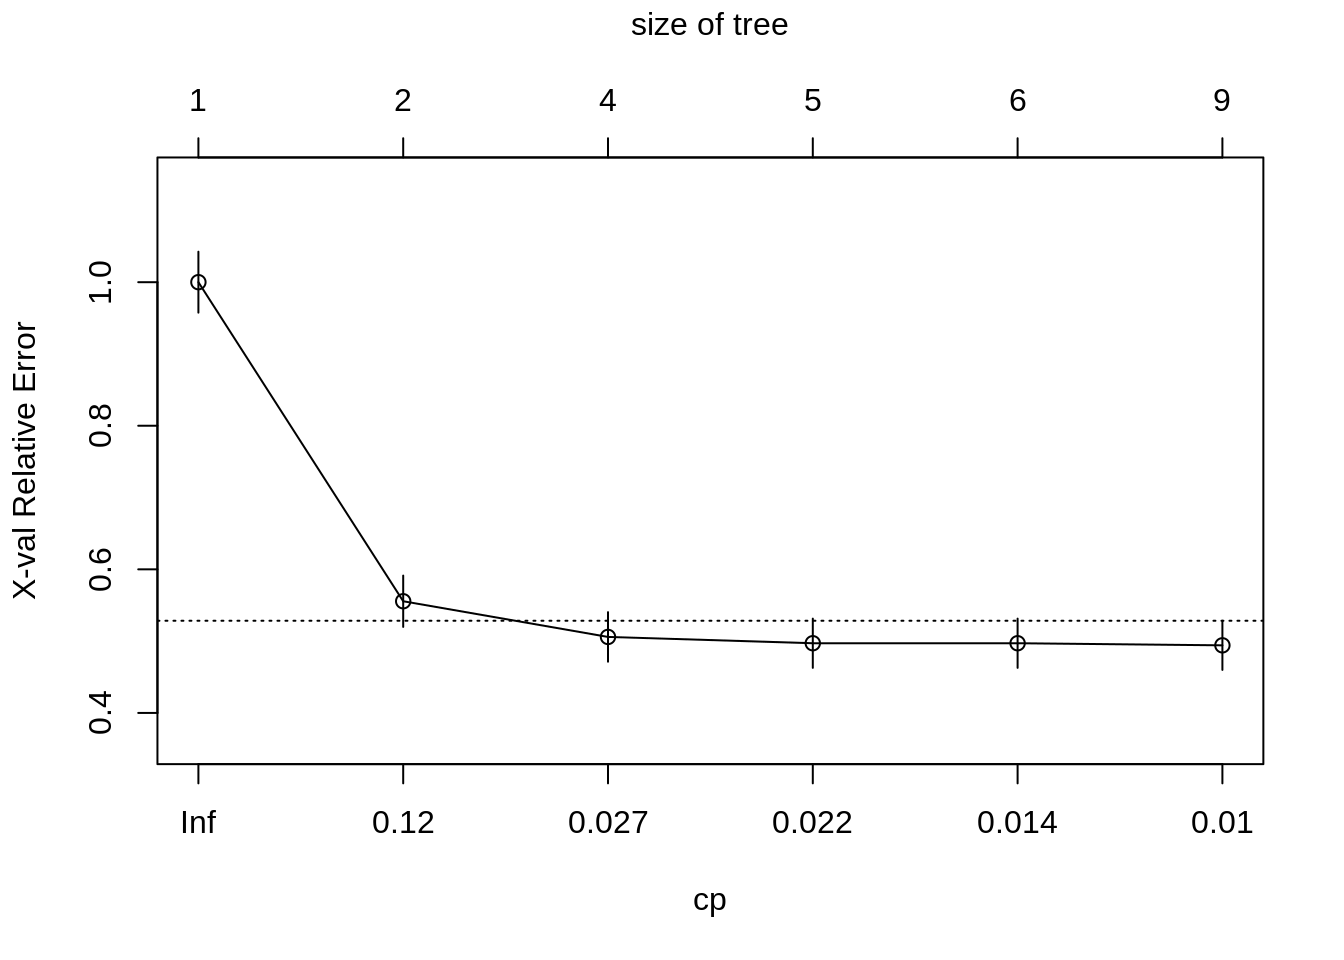
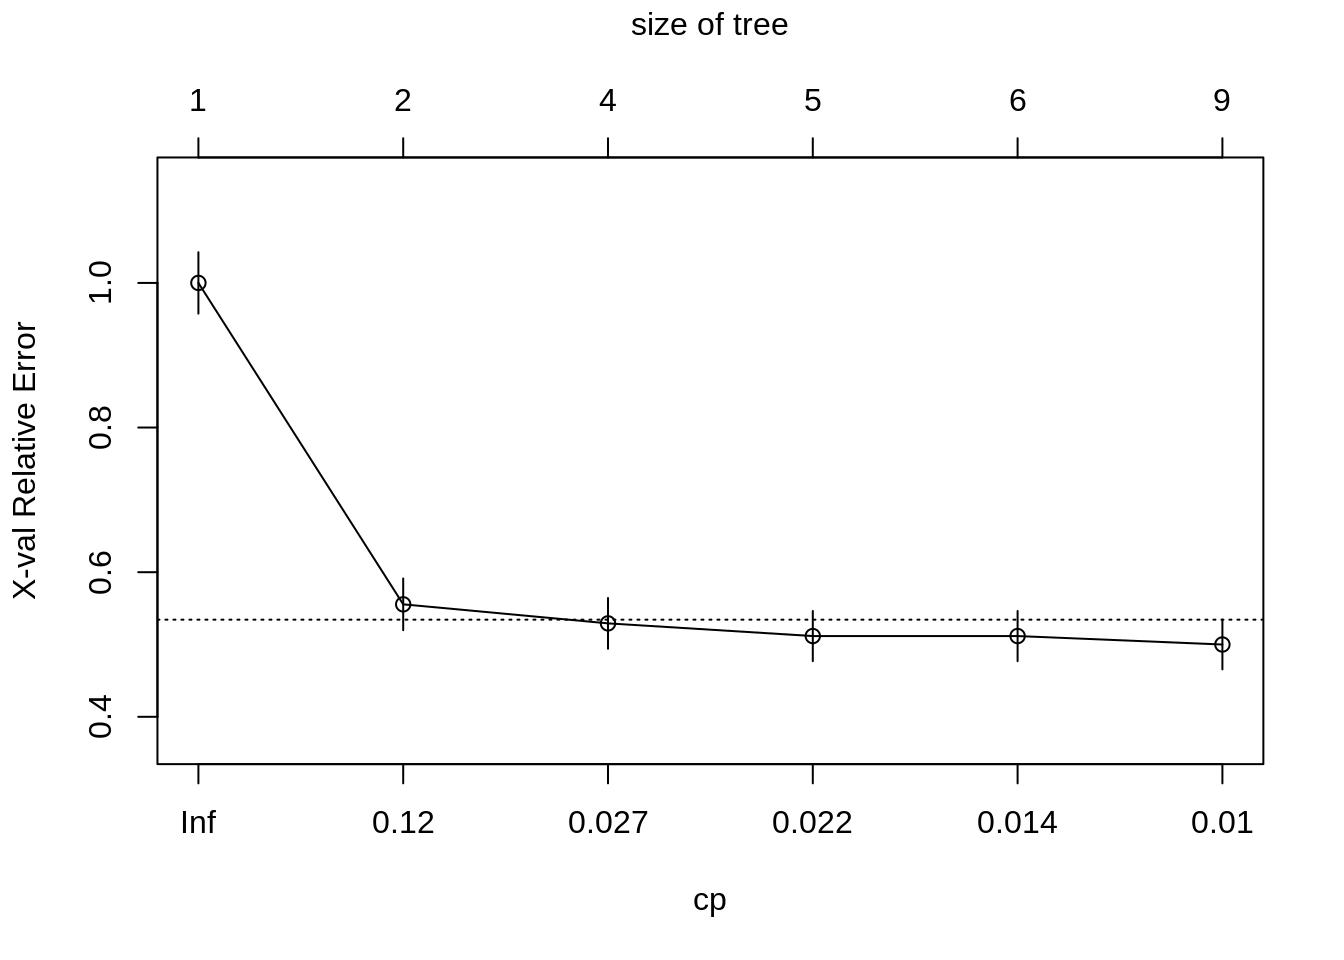
Deploy lebebr01/stat_thinking to github.com/lebebr01/stat_thinking.git:master

diff --git a/docs/classification.html b/docs/classification.html
@@ -324,10 +324,10 @@ titanic &lt;-<span class="st"> </span><span class="kw">bind_rows</span>(titanic_
 ##         CP nsplit rel error  xerror     xstd
 ## 1 0.444444      0   1.00000 1.00000 0.042446
 ## 2 0.030702      1   0.55556 0.55556 0.035750
-## 3 0.023392      3   0.49415 0.50585 0.034524
-## 4 0.020468      4   0.47076 0.49708 0.034295
-## 5 0.010234      5   0.45029 0.49708 0.034295
-## 6 0.010000      8   0.41813 0.49415 0.034217</code></pre>
+## 3 0.023392      3   0.49415 0.52924 0.035116
+## 4 0.020468      4   0.47076 0.51170 0.034675
+## 5 0.010234      5   0.45029 0.51170 0.034675
+## 6 0.010000      8   0.41813 0.50000 0.034372</code></pre>
 <div class="sourceCode"><pre class="sourceCode r"><code class="sourceCode r"><span class="kw">plotcp</span>(class_tree)</code></pre></div>
 <p><img src="05-classification_files/figure-html/unnamed-chunk-6-1.png" width="672" /></p>
 <div class="sourceCode"><pre class="sourceCode r"><code class="sourceCode r">prune_class_tree &lt;-<span class="st"> </span><span class="kw">prune</span>(class_tree, <span class="dt">cp =</span> .<span class="dv">02</span>)

diff --git a/docs/descriptive-statistics-numerically-describing-the-sample-data.html b/docs/descriptive-statistics-numerically-describing-the-sample-data.html
@@ -560,6 +560,7 @@ Y = \begin{pmatrix}10 - 24\\ 10-24\\ 20-24\\ 30-24\\ 50-24\end{pmatrix} = \begin
 <span class="st">  </span><span class="kw">df_stats</span>(<span class="op">~</span><span class="st"> </span>adm_rate, mae)</code></pre></div>
 <pre><code>##   mae_adm_rate
 ## 1    0.1692953</code></pre>
+<!-- This is a test. -->
 <!-- ## Considering Groups -->
 <!-- We've spent a lot of time trying to reason about other variables that may be important in explaining variation in our variable of interest. So far we have only explored the variable without considering other variables, in practice that is not that useful. -->
 <!-- Instead, it is common to compute conditional statistics based on other characteristics in the data. An example may help to show the idea more clearly. -->

diff --git a/docs/05-classification.md b/docs/05-classification.md
@@ -249,10 +249,10 @@ printcp(class_tree)
 ##         CP nsplit rel error  xerror     xstd
 ## 1 0.444444      0   1.00000 1.00000 0.042446
 ## 2 0.030702      1   0.55556 0.55556 0.035750
-## 3 0.023392      3   0.49415 0.50585 0.034524
-## 4 0.020468      4   0.47076 0.49708 0.034295
-## 5 0.010234      5   0.45029 0.49708 0.034295
-## 6 0.010000      8   0.41813 0.49415 0.034217
+## 3 0.023392      3   0.49415 0.52924 0.035116
+## 4 0.020468      4   0.47076 0.51170 0.034675
+## 5 0.010234      5   0.45029 0.51170 0.034675
+## 6 0.010000      8   0.41813 0.50000 0.034372
 ```
 
 ```r

diff --git a/docs/03-descriptive.md b/docs/03-descriptive.md
@@ -709,7 +709,7 @@ colleges %>%
 ```
 
 
-
+<!-- This is a test. -->
 
 <!-- ## Considering Groups -->
 <!-- We've spent a lot of time trying to reason about other variables that may be important in explaining variation in our variable of interest. So far we have only explored the variable without considering other variables, in practice that is not that useful. -->
